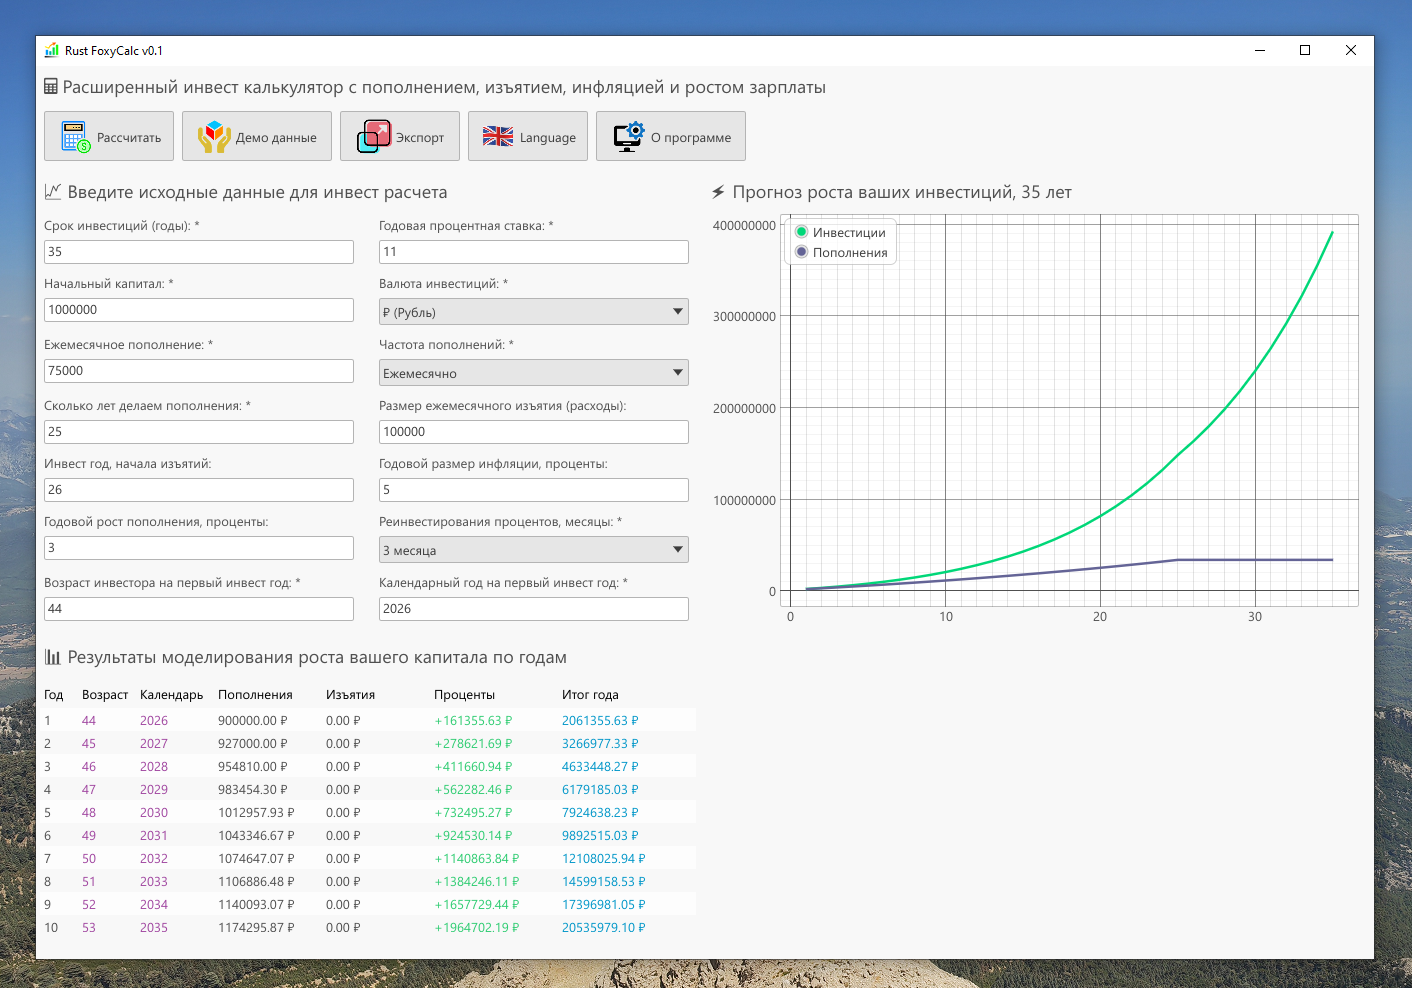
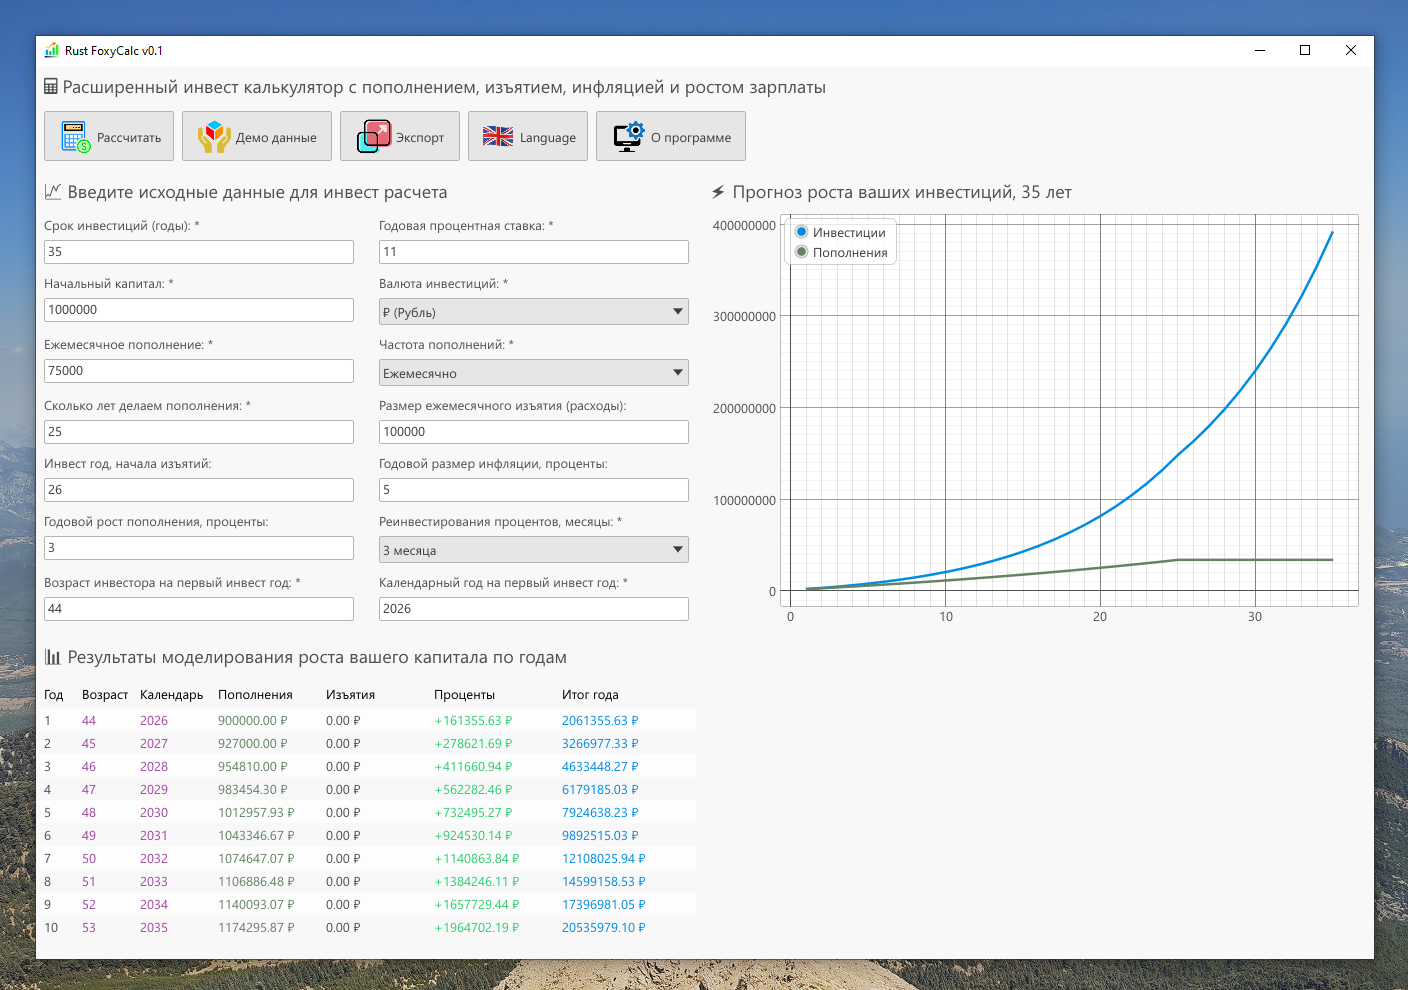
Updated colors for graph and table, and removed commented code

diff --git a/src/main.rs b/src/main.rs
@@ -795,7 +795,9 @@ impl MyApp {
                         ui.label(egui::RichText::new(data.calendar_year.to_string()).color(egui::Color32::from_rgb(160, 70, 160))); 
                     });
 
-                    row.col(|ui| { ui.label(format!("{:.2} {}", data.deposits, self.currency_sign)); });
+                    row.col(|ui| { 
+                        ui.label(egui::RichText::new(format!("{:.2} {}", data.deposits, self.currency_sign)).color(egui::Color32::from_rgb(100, 130, 100)));
+                    });
                     row.col(|ui| { ui.label(format!("{:.2} {}", data.withdraw, self.currency_sign)); });
                     
                     row.col(|ui| {
@@ -803,7 +805,7 @@ impl MyApp {
                     });
                     
                     row.col(|ui| {
-                        ui.label(egui::RichText::new(format!("{:.2} {}", data.end_balance, self.currency_sign)).color(egui::Color32::from_rgb(0, 150, 200))); 
+                        ui.label(egui::RichText::new(format!("{:.2} {}", data.end_balance, self.currency_sign)).color(egui::Color32::from_rgb(0, 140, 225))); 
                     });
                 });
             });
@@ -824,7 +826,7 @@ impl MyApp {
                     .collect();
 
                 let line_capital = Line::new("Инвестиции", points_capital)
-                    .color(egui::Color32::from_rgb(0, 215, 120)) // Зеленая
+                    .color(egui::Color32::from_rgb(0, 140, 225)) // Синяя
                     .width(2.5_f32);
 
                 // 2. Точки для ВТОРОЙ линии (Накопление пополнений с учетом стартового капитала)
@@ -838,7 +840,7 @@ impl MyApp {
                     .collect();
 
                 let line_deposits = Line::new("Пополнения", points_deposits)
-                    .color(egui::Color32::from_rgb(100, 100, 150)) // Темно-сине-серый
+                    .color(egui::Color32::from_rgb(100, 130, 100)) // Темно-серый
                     .width(2.5_f32);
 
                 // Настройка самого холста графика
@@ -859,43 +861,6 @@ impl MyApp {
             ui.label("Нажмите кнопку 'Рассчитать', чтобы увидеть график прогноза.");
         }
     }
-
-    /*
-    // Рисуем график с ростом наших инвестиций (вторая колонка в UI)
-    fn plot_graph(&mut self, ui: &mut egui::Ui) {
-        if !self.calc_result_rows.is_empty() {
-            ui.vertical(|ui| {
-                let years_count = self.calc_result_rows.len();
-                ui.heading(format!("⚡ Прогноз роста ваших инвестиций, {} лет", years_count));
-                ui.add_space(8.0);
-
-                let points: PlotPoints = self.calc_result_rows
-                    .iter()
-                    .map(|row| [row.invest_year as f64, row.end_balance])
-                    .collect();
-
-                // ТЕПЕРЬ СИНТАКСИС РАБОТАЕТ: передаем имя линии и точки, красим в синий
-                let line = Line::new("Инвестиции", points)
-                    .color(egui::Color32::from_rgb(0, 120, 215)) 
-                    .width(2.5_f32);
-
-                // Настройка самого холста графика
-                Plot::new("investment_growth_plot")
-                    .width(650.0)
-                    .height(410.0)
-                    .allow_zoom(true)
-                    .allow_drag(true)
-                    // В версии 0.33 для белого фона используется метод fill_color
-                    //.background_color(egui::Color32::WHITE) 
-                    .show(ui, |plot_ui| {
-                        plot_ui.line(line);
-                    });
-            });
-        } else {
-            ui.label("Нажмите кнопку 'Рассчитать', чтобы увидеть график прогноза.");
-        }
-    }
-    */
 
 } // impl MyApp
 

diff --git a/README.md b/README.md
@@ -1,4 +1,4 @@
 # FoxyCalcRust description
-An advanced investment calculator (compound interest) created to demonstrate how to work with GUI (eframe/egui) on Rust. The calculations accept up to 14 input parameters. The result of the investment will be visualized on the graph. You will clearly see the effect of compound interest and your deposits.
+An advanced investment calculator (compound interest) created to demonstrate how to work with GUI (eframe/egui) on Rust. The calculations accept up to 14 input parameters. The result of the investment will be visualized on the colored graph. You will clearly see the effect of compound interest and your deposits.
 
 Author: Sidelnikov Dmitriy, Email: nirvikalpa@yandex.ru, Telegram: @SpringDayInTheForest
